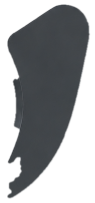
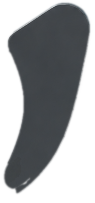
1.0.15: 윗면 버튼 클릭 수정, 그립=뒤로·홈=ROOM, ROOM 상태창 키 조작, LED ON 그림, 누끼, 상태반영 경로 수정
- 윗면 버튼 2개: 키 묶음이 기기 전체를 드래그 영역으로 덮어 클릭이 막히던 것 수정 (좌=기기색 4종, 우=홀로그램 On/Off)
- 홀로그램 Off 때 빛줄기(콘)가 깜빡임 애니메이션으로 남던 것 숨김
- 오른쪽 아래 그립 = 뒤로가기, 시작 화면 ROOM, 뒤로 계속 누르면 ROOM
- ROOM 가운데 키 = 지금 방 캐릭터 상태창 열기/닫기 (키 누르자마자 닫히던 버그 수정)
- USAGE 위 요약 줄 제거
- 오이지 아트: 4색 body(링 안 투명·그립 복구), keyR 복구, 키별 LED ON 그림(좌·우 위/아래, 가운데, 윗면 버튼)
- 봇 상태: 채팅 기록 폴더 경로 오타(v1.0.14) 수정, 오늘 활동 없는 봇도 침실로

diff --git a/renderer/styles.css b/renderer/styles.css
@@ -2371,3 +2371,48 @@ html.ui-holo .tama-page { display: block; position: absolute; right: 10px; botto
 .zone-labels.cam .zone-label.cur::before { content: "\25C0  "; opacity: .7; }
 .zone-labels.cam .zone-label.cur::after { content: "  \25B6"; opacity: .7; }
 html.ui-holo .zone-labels.cam .zone-label { font-size: 11px; padding: 2px 10px; }
+
+/* ================================================================
+   v1.0.15 (장현님 11-26 피드백 3298)
+   ================================================================ */
+/* 1) 윗면 버튼 2개: 키 묶음(.holo-keys)이 기기 전체를 덮는 드래그 영역이라 클릭이 먹혔다.
+      묶음 상자를 없애고(display: contents) 기기 몸통(.device)의 드래그만 남긴다. 버튼들은 no-drag. */
+html.ui-holo.dev-art .holo-keys { display: contents; }
+html.ui-holo.dev-art .holo-key, html.ui-holo.dev-art .hb-top, html.ui-holo.dev-art .hb-back { -webkit-app-region: no-drag; }
+
+/* 3) LED: 눌린 키만 오이지의 LED ON 그림을 덮는다 (예전 drop-shadow 빛 대신) */
+html[data-dev="gunmetal"] { --dev-keyLTopOn: url("../assets/device/gunmetal/keyLTopOn.png"); --dev-keyLBotOn: url("../assets/device/gunmetal/keyLBotOn.png"); --dev-keyRTopOn: url("../assets/device/gunmetal/keyRTopOn.png"); --dev-keyRBotOn: url("../assets/device/gunmetal/keyRBotOn.png"); --dev-keyOKOn: url("../assets/device/gunmetal/keyOKOn.png"); --dev-btnAOn: url("../assets/device/gunmetal/btnAOn.png"); --dev-btnBOn: url("../assets/device/gunmetal/btnBOn.png"); }
+html[data-dev="obsidian"] { --dev-keyLTopOn: url("../assets/device/obsidian/keyLTopOn.png"); --dev-keyLBotOn: url("../assets/device/obsidian/keyLBotOn.png"); --dev-keyRTopOn: url("../assets/device/obsidian/keyRTopOn.png"); --dev-keyRBotOn: url("../assets/device/obsidian/keyRBotOn.png"); --dev-keyOKOn: url("../assets/device/obsidian/keyOKOn.png"); --dev-btnAOn: url("../assets/device/obsidian/btnAOn.png"); --dev-btnBOn: url("../assets/device/obsidian/btnBOn.png"); }
+html[data-dev="arctic"] { --dev-keyLTopOn: url("../assets/device/arctic/keyLTopOn.png"); --dev-keyLBotOn: url("../assets/device/arctic/keyLBotOn.png"); --dev-keyRTopOn: url("../assets/device/arctic/keyRTopOn.png"); --dev-keyRBotOn: url("../assets/device/arctic/keyRBotOn.png"); --dev-keyOKOn: url("../assets/device/arctic/keyOKOn.png"); --dev-btnAOn: url("../assets/device/arctic/btnAOn.png"); --dev-btnBOn: url("../assets/device/arctic/btnBOn.png"); }
+html[data-dev="cobalt"] { --dev-keyLTopOn: url("../assets/device/cobalt/keyLTopOn.png"); --dev-keyLBotOn: url("../assets/device/cobalt/keyLBotOn.png"); --dev-keyRTopOn: url("../assets/device/cobalt/keyRTopOn.png"); --dev-keyRBotOn: url("../assets/device/cobalt/keyRBotOn.png"); --dev-keyOKOn: url("../assets/device/cobalt/keyOKOn.png"); --dev-btnAOn: url("../assets/device/cobalt/btnAOn.png"); --dev-btnBOn: url("../assets/device/cobalt/btnBOn.png"); }
+.hb-on, .hb-back { display: none; }
+html.ui-holo.dev-art .hb-on { display: block; position: absolute; pointer-events: none; opacity: 0; transition: opacity .3s ease-out; background: var(--on) 0 0 / 100% 100% no-repeat; z-index: 6; }
+html.ui-holo.dev-art .hb-on.lt { left: 143px; top: 320px; width: 112px; height: 223px; --on: var(--dev-keyLTopOn); }
+html.ui-holo.dev-art .hb-on.lb { left: 143px; top: 320px; width: 112px; height: 223px; --on: var(--dev-keyLBotOn); }
+html.ui-holo.dev-art .hb-on.rt { left: 372px; top: 327px; width: 107px; height: 216px; --on: var(--dev-keyRTopOn); }
+html.ui-holo.dev-art .hb-on.rb { left: 372px; top: 327px; width: 107px; height: 216px; --on: var(--dev-keyRBotOn); }
+html.ui-holo.dev-art .hb-on.ok { left: 233px; top: 361px; width: 155px; height: 177px; --on: var(--dev-keyOKOn); }
+html.ui-holo.dev-art .holo-base:has(.holo-key.half.top[data-hkey="L"].down) .hb-on.lt,
+html.ui-holo.dev-art .holo-base:has(.holo-key.half.bot[data-hkey="L"].down) .hb-on.lb,
+html.ui-holo.dev-art .holo-base:has(.holo-key.half.top[data-hkey="R"].down) .hb-on.rt,
+html.ui-holo.dev-art .holo-base:has(.holo-key.half.bot[data-hkey="R"].down) .hb-on.rb,
+html.ui-holo.dev-art .holo-base:has(.holo-key.ok.down) .hb-on.ok { opacity: 1; transition: opacity .04s; }
+/* 키 자체는 살짝 눌리기만 (빛은 위 LED 그림이 담당) */
+html.ui-holo.dev-art .holo-key.down { filter: brightness(.92); }
+html.ui-holo.dev-art .hb-top.a.down { background-image: var(--dev-btnAOn); filter: none; }
+html.ui-holo.dev-art .hb-top.b.down { background-image: var(--dev-btnBOn); filter: none; }
+/* 홀로그램이 켜져 있으면 오른쪽 윗 버튼(B)은 LED가 켜진 채로 */
+html.ui-holo.dev-art:not(.holo-off) .hb-top.b { background-image: var(--dev-btnBOn); }
+
+/* 5) 우측 하단 그립 = 뒤로가기 (그림 위 투명 버튼, 누르면 그립에 빛) */
+html.ui-holo.dev-art .hb-back { display: block; position: absolute; left: 486px; top: 336px; width: 62px; height: 196px; border: 0; padding: 0; margin: 0; background: transparent; border-radius: 26px 40px 46px 22px; cursor: pointer; z-index: 7; transform: rotate(8deg); }
+html.ui-holo.dev-art .hb-back.down { background: radial-gradient(ellipse 58% 52% at 50% 55%, color-mix(in srgb, var(--dev-glow, #7fe6ff) 70%, transparent), color-mix(in srgb, var(--dev-glow, #7fe6ff) 18%, transparent) 60%, transparent 78%); box-shadow: inset 0 0 14px color-mix(in srgb, var(--dev-glow, #7fe6ff) 60%, transparent); }
+/* 예전 테마의 눌림 그림자(사각형)가 비쳐 보이던 것 제거 */
+html.ui-holo.dev-art .holo-key, html.ui-holo.dev-art .holo-key.down, html.ui-holo.dev-art .hb-top, html.ui-holo.dev-art .hb-top.down { box-shadow: none !important; }
+html.ui-holo.dev-art .hb-back:focus-visible { outline: 2px solid var(--dev-glow, #7fe6ff); outline-offset: 2px; }
+
+/* 8) USAGE: 위쪽 요약 줄 빼기 — 카드 한 장에 다 있음. 새로고침은 가운데 키 */
+html.ui-holo .usage-summary { display: none; }
+
+/* 홀로그램 끄면 빛줄기(콘)도 꺼지게 (뒤 규칙이 opacity를 덮어쓰던 것) */
+html.ui-holo.dev-art.holo-off .holo-cone { opacity: 0 !important; animation: none !important; visibility: hidden; } /* 깜빡임 애니메이션이 opacity 0을 무시하고 그려서 숨김 */

diff --git a/renderer/app.js b/renderer/app.js
@@ -18,7 +18,7 @@
     popBot: null,
     usage: null,
     update: {},
-    view: 'tamagotchi',
+    view: 'house',   // 홈 = ROOM (장현님 11-26)
     sheet: null,
     careIdx: 0,
     focus: 'tabs',   // 'tabs' = 상단 탭 줄, 'view' = 화면 안
@@ -647,7 +647,7 @@
       if (!el('popover').hidden) closePopover();
       // 아래 키 = 방 옮기기 (침실 ↔ 거실 ↔ 작업실). 옮긴 방의 첫 캐릭터를 고른다
       const id = window.House.stepRoom ? window.House.stepRoom(step) : null;
-      if (window.House.stepRoom) { if (id) { app.selected = id; window.House.setSelected(id); renderAll(); } }
+      if (window.House.stepRoom) { app.selected = id; window.House.setSelected(id); renderAll(); }
       else stepRoomBot(step);
     }
     else if (app.view === 'usage') { if (document.documentElement.classList.contains('ui-holo')) { app.usageIdx = (app.usageIdx || 0) + step; paintUsagePage(); } else pageStep(step); }
@@ -661,9 +661,14 @@
   }
 
   function holoOk() {
-    if (app.focus === 'tabs') { setFocus('view'); paintSettingSel(); return; }
+    if (app.focus === 'tabs') { setFocus('view'); paintSettingSel(); if (app.view !== 'house') return; }
     if (app.view === 'tamagotchi') { if (app.sheet === 'care') runCare(); else openSheet('care'); }
-    else if (app.view === 'house') openPopover(app.selected || BOT_IDS[0]);
+    else if (app.view === 'house') {
+      if (!el('popover').hidden) { closePopover(); return; }
+      const here = window.House.botsIn && window.House.currentRoom ? window.House.botsIn(window.House.currentRoom()) : [];
+      const id = (app.selected && here.includes(app.selected)) ? app.selected : (here[0] || app.selected || BOT_IDS[0]);
+      openPopover(id);
+    }
     else if (app.view === 'usage') loadUsage(true);
     else if (app.view === 'settings') {
       if (app.sheet !== 'menu') { openSheet('menu'); return; }
@@ -678,7 +683,9 @@
     if (!el('popover').hidden) { closePopover(); return; }
     if (app.sheet && app.view !== 'settings') { closeSheet(); return; }
     if (app.sheet === 'log') { openSheet('menu'); return; }
-    setFocus('tabs');
+    // 더 닫을 게 없으면 홈(ROOM)으로. ROOM에서는 그대로
+    if (app.view !== 'house') switchView('house');
+    setFocus('view');
     paintSettingSel();
   }
 
@@ -693,6 +700,10 @@
         else { if (app.focus === 'tabs') setFocus('view'); holoMove(step); }
       });
     });
+
+    // 우측 하단 그립 = 뒤로가기
+    const back = document.querySelector('.hb-back');
+    if (back) back.addEventListener('click', () => { if (window.Sfx) window.Sfx.play('click'); holoBack(); });
 
     if (!ok) return;
     let timer = null;
@@ -888,7 +899,7 @@
     });
 
     // 메뉴 시트
-    el('menuClose').addEventListener('click', () => { if (app.view === 'settings') { switchView('tamagotchi'); setFocus('tabs'); } else closeSheet(); });
+    el('menuClose').addEventListener('click', () => { if (app.view === 'settings') { switchView('house'); setFocus('view'); } else closeSheet(); });
     el('careClose').addEventListener('click', closeSheet);
 
     el('settingsBtn').addEventListener('click', () => {
@@ -1019,6 +1030,8 @@
       if (pop.contains(e.target)) return;
       if (e.target.closest('.status-chip') || e.target.closest('.bot-row')) return;
       if (e.target.closest('#scene')) return;
+      // 기기 키(가운데=열기/닫기, 아래=방 이동, 그립=뒤로)는 각자 상태창을 다룬다
+      if (e.target.closest('.holo-key, .hb-top, .hb-back')) return;
       closePopover();
     });
   }
@@ -1078,7 +1091,7 @@
 
 /* 물리 버튼 누름 애니: 누르는 동안 .down, 놓을 때 .pop (마우스·터치·키보드 공통) */
 (function () {
-  const SEL = '.holo-key, .hb-top, .rail-switch, .win-btn.close';
+  const SEL = '.holo-key, .hb-top, .hb-back, .rail-switch, .win-btn.close';
   const release = (b) => {
     if (!b.classList.contains('down')) return;
     b.classList.remove('down');

diff --git a/renderer/index.html b/renderer/index.html
@@ -184,7 +184,7 @@
                         <span class="tama-btn-label">재우기</span>
                       </button>
                     </div>
-                    <p class="care-hint" id="careHint">← → 로 고르고 ✓ 로 실행 · ✓ 길게 누르면 뒤로</p>
+                    <p class="care-hint" id="careHint">← → 로 고르고 ✓ 로 실행 · 오른쪽 아래 그립 = 뒤로</p>
                   </section>
 
                   <!-- 액정 시트: 클로드 로그 -->
@@ -224,6 +224,10 @@
         <i class="hb-glow l" aria-hidden="true"></i><i class="hb-glow ok" aria-hidden="true"></i><i class="hb-glow r" aria-hidden="true"></i>
         <button class="hb-top a" type="button" data-act="color" title="기기 색 바꾸기 (4가지)" aria-label="기기 색 바꾸기"></button>
         <button class="hb-top b" type="button" data-act="holo" title="홀로그램 화면 켜기/끄기" aria-label="홀로그램 켜기/끄기"></button>
+        <!-- 눌렀을 때 켜지는 LED 그림 (오이지 아트: keyLTopOn 등) -->
+        <i class="hb-on lt" aria-hidden="true"></i><i class="hb-on lb" aria-hidden="true"></i><i class="hb-on rt" aria-hidden="true"></i><i class="hb-on rb" aria-hidden="true"></i><i class="hb-on ok" aria-hidden="true"></i>
+        <!-- 우측 하단 그립 = 뒤로가기 -->
+        <button class="hb-back" type="button" title="뒤로" aria-label="뒤로가기"></button>
         <div class="holo-keys">
           <button class="holo-key half top" type="button" data-hkey="L" data-half="top" aria-label="이전 메뉴"></button><button class="holo-key half bot" type="button" data-hkey="L" data-half="bot" aria-label="메뉴 안 이전"></button>
           <button class="holo-key ok" type="button" data-hkey="OK" aria-label="확인 (길게 누르면 뒤로)"><svg viewBox="0 0 12 12" shape-rendering="crispEdges"><rect x="1" y="6" width="2" height="2"/><rect x="2" y="7" width="2" height="2"/><rect x="3" y="8" width="2" height="2"/><rect x="4" y="9" width="2" height="1"/><rect x="5" y="7" width="2" height="2"/><rect x="6" y="6" width="2" height="2"/><rect x="7" y="4" width="2" height="2"/><rect x="8" y="3" width="2" height="2"/><rect x="9" y="2" width="2" height="2"/></svg></button>
